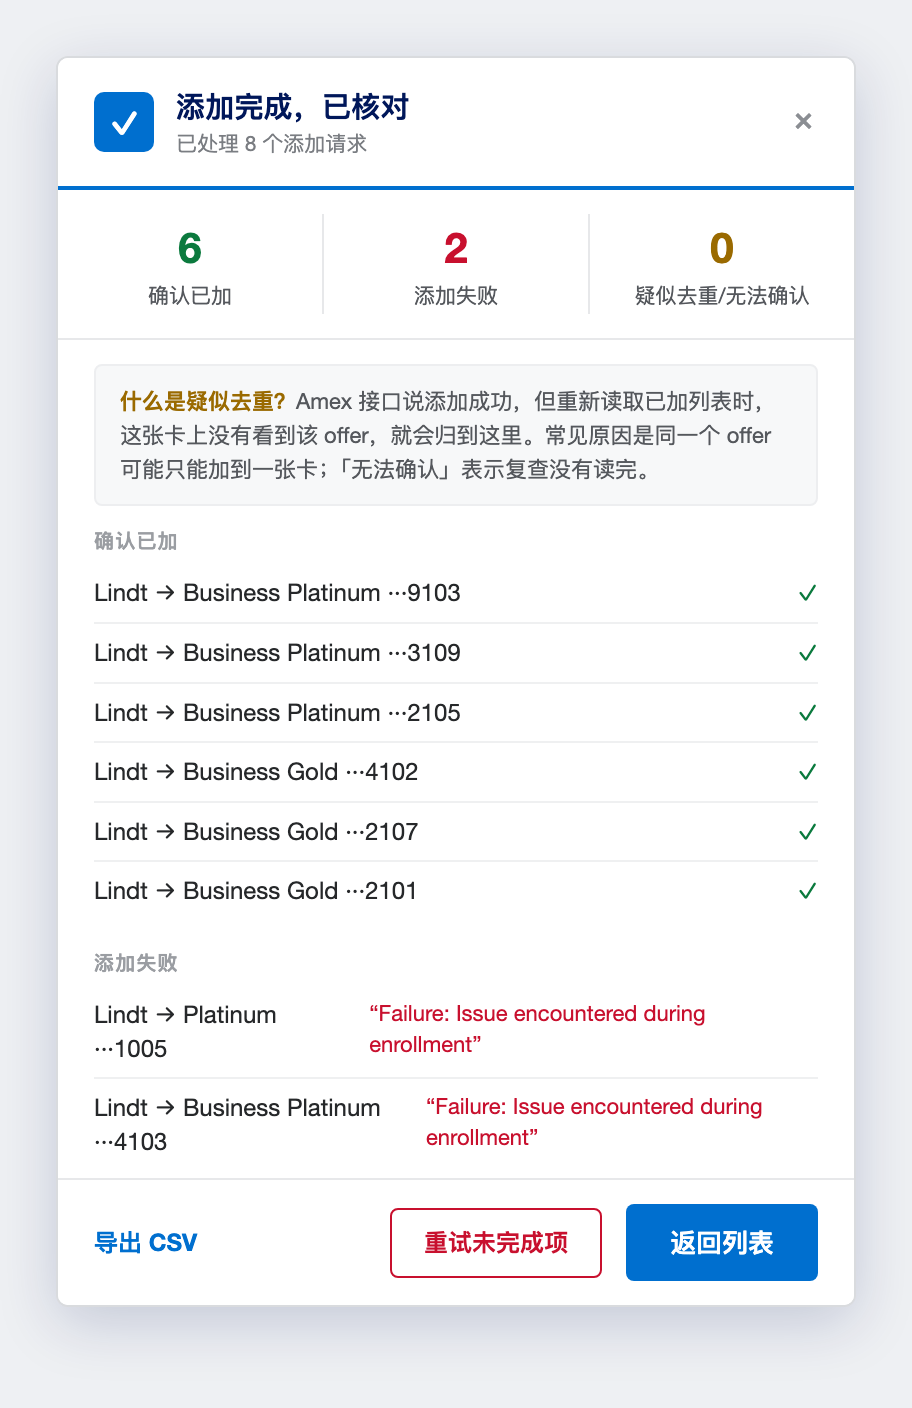
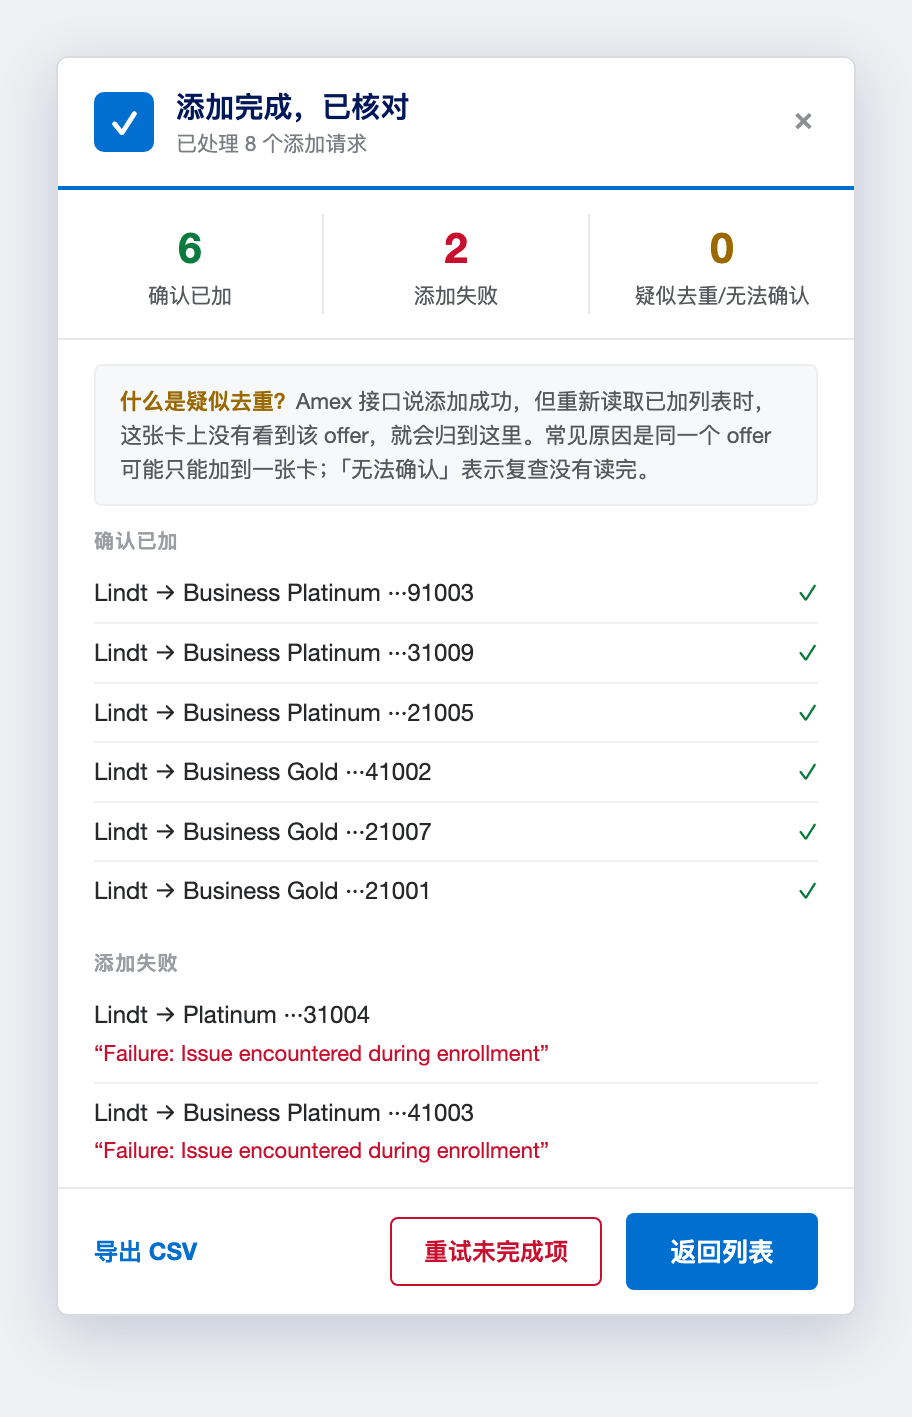
Fix ragged failed rows in the result view (#8)
* Fix ragged failed rows in the result view

The failed-row error reused class "msg", which collides with the centered
empty/error message box (.msg { text-align:center; padding:34px 24px }), so the
long Amex error rendered centered with huge padding and .si's space-between
pushed it to the row's bottom — ragged and misaligned. Rename to .si-msg and
stack the message under the card label (left-aligned, tight gap). v0.17.1.

* Update result.png to the fixed (aligned) layout

---------

diff --git a/src/amex-assistant.user.js b/src/amex-assistant.user.js
@@ -1,7 +1,7 @@
 // ==UserScript==
 // @name         Amex Assistant
 // @namespace    https://github.com/olddonkey/amex-assistant
-// @version      0.17.0
+// @version      0.17.1
 // @description  Pick an Amex Offer and add it to multiple cards from one panel; verifies which cards actually got it. Local-only, no telemetry.
 // @author       olddonkey
 // @match        https://global.americanexpress.com/*
@@ -1602,8 +1602,14 @@
     .sh { font-size: 10px; font-weight: 700; color: var(--fog);
       letter-spacing: .6px; padding: 10px 0 5px; }
     .si { display: flex; justify-content: space-between; gap: 8px; padding: 6px 0;
+      align-items: baseline;
       border-bottom: 1px solid var(--line2); font-size: 12px; color: var(--ink); }
     .si:last-child { border-bottom: none; }
+    /* Failed rows carry a long message — stack it under the card, left-aligned,
+       instead of wrapping ragged beside it. */
+    .si.col { flex-direction: column; align-items: stretch;
+      justify-content: flex-start; gap: 3px; }
+    .si.col .si-msg { font-size: 11px; line-height: 1.45; text-align: left; }
     .ri { display: flex; align-items: center; gap: 10px; padding: 8px 0;
       border-bottom: 1px solid var(--line2); font-size: 12px; color: var(--ink); }
     .ri .txt { flex: 1; min-width: 0; white-space: nowrap; overflow: hidden;
@@ -2626,12 +2632,17 @@
         el('div', {class: 'sh', text: title})));
       const wrap = el('div', {style: 'padding:0 18px 4px'});
       for (const r of items) {
-        const right = r.state === ResultState.FAILED && r.message ?
-          el('span', {class: cls, style: 'font-size:11px',
-            text: `“${r.message}”`}) :
-          el('span', {class: cls, text: glyph});
-        wrap.append(el('div', {class: 'si'},
-          el('span', {text: `${r.name} → ${cardLabel(r.token)}`}), right));
+        const label = `${r.name} → ${cardLabel(r.token)}`;
+        if (r.state === ResultState.FAILED && r.message) {
+          // Long server message: stack it under the card, left-aligned.
+          wrap.append(el('div', {class: 'si col'},
+            el('span', {text: label}),
+            el('span', {class: `${cls} si-msg`, text: `“${r.message}”`})));
+        } else {
+          wrap.append(el('div', {class: 'si'},
+            el('span', {text: label}),
+            el('span', {class: cls, text: glyph})));
+        }
       }
       body.append(wrap);
     };
